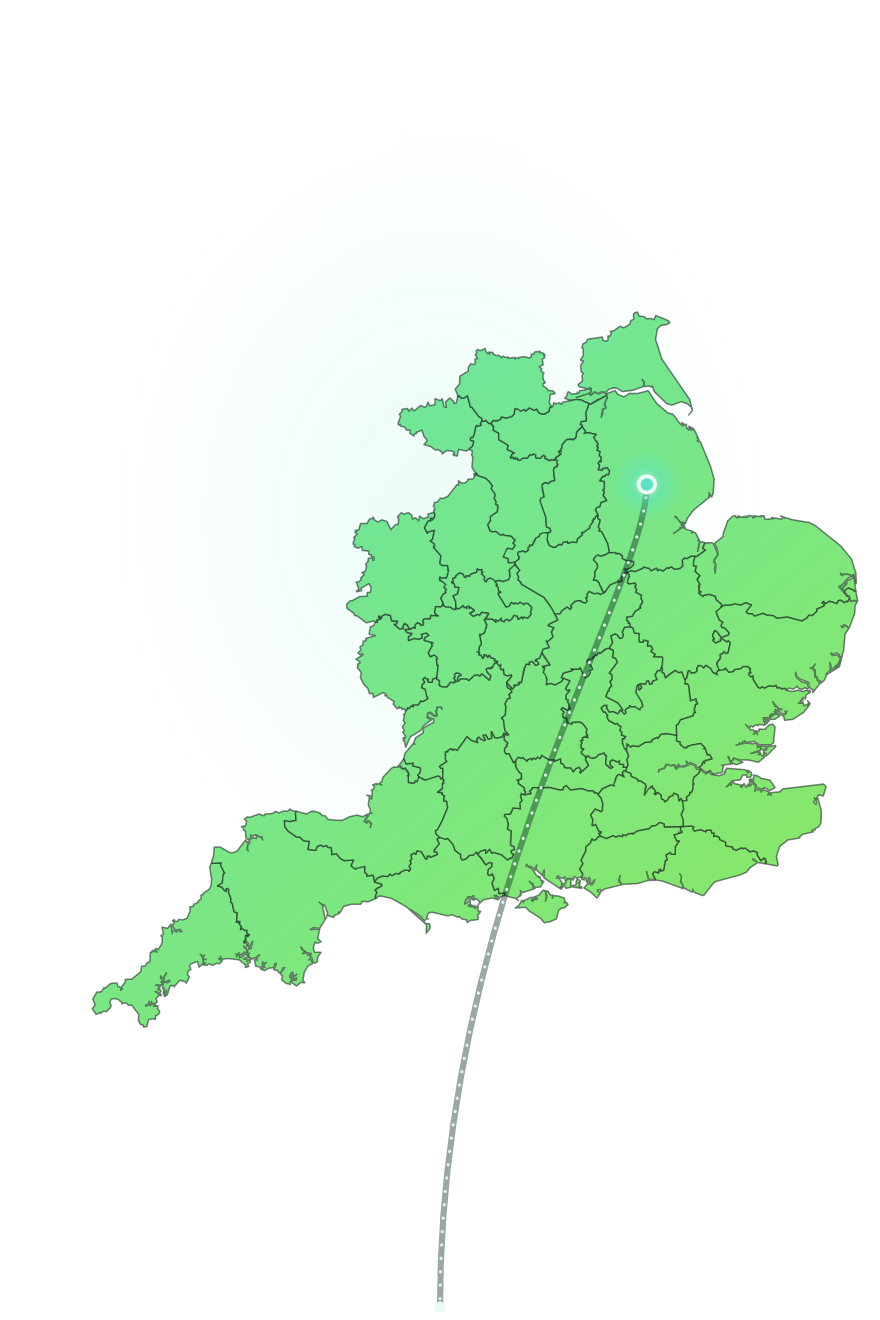
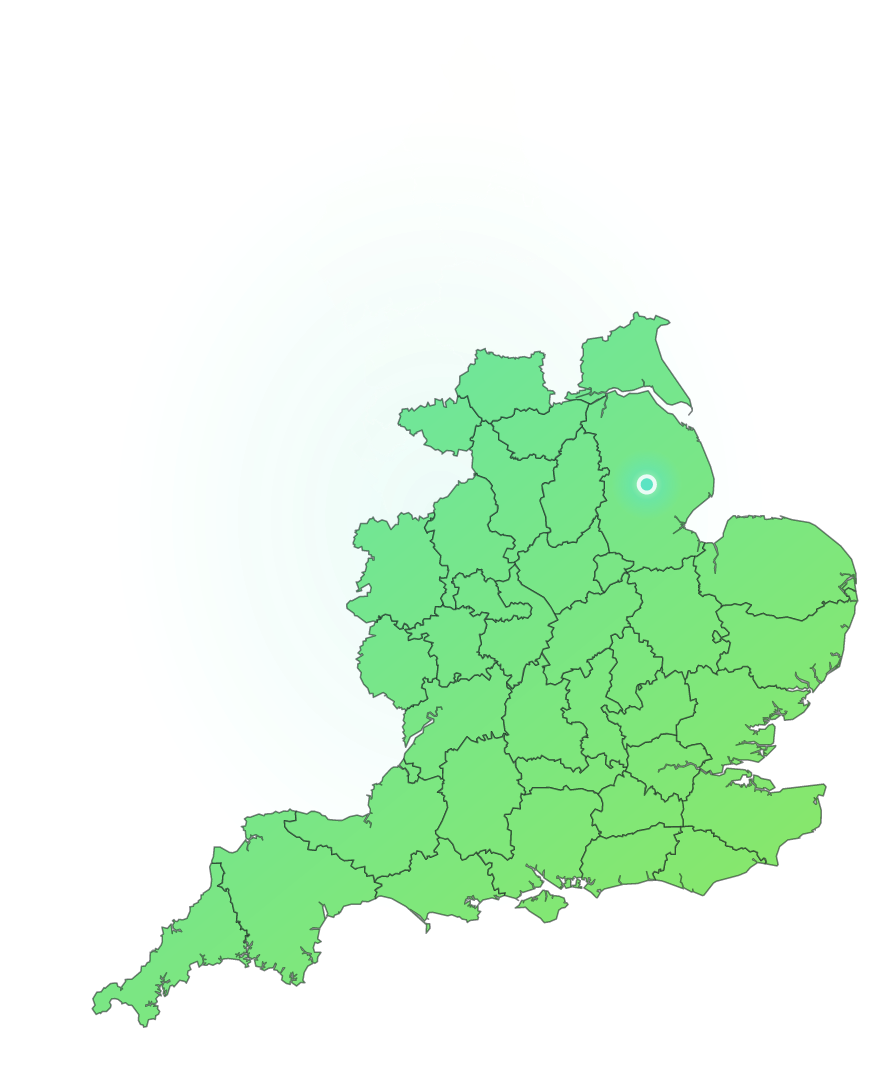
Course count 1,446; make Woodhall Spa a highlight, not the centrepiece
- progressConfig: coursesMapped 1,181 -> 1,446.
- Woodhall drops from the big under-map callout to a highlight bullet, below the
  totals — the map keeps a bright locator pin, the highlight names it. Removes
  the leader line and the extended map canvas; the spotlight config is now just
  the pin (enabled / county / name).

Regenerated atlas-current.png (pin only, no leader).

Claude-Session: https://claude.ai/code/session_011c8BDkbpDYh5arE365nVvF

Changed region(s): [[0.092, 0.2143, 0.9818, 0.9796]]

diff --git a/src/emails/update.tsx b/src/emails/update.tsx
@@ -82,38 +82,6 @@ export default function UpdateEmail() {
             width={440}
             style={{ width: "100%", maxWidth: 440, height: "auto", margin: "0 auto" }}
           />
-          {/* Standout-course callout — continues the leader line baked into the
-              map above (it lands at bottom-centre, so this stays centred). */}
-          {progress.spotlight.enabled && (
-            <>
-              <Text
-                style={{
-                  margin: "2px 0 0",
-                  fontFamily: brand.display,
-                  fontSize: 16,
-                  fontWeight: 600,
-                  letterSpacing: "-0.2px",
-                  color: brand.ink,
-                }}
-              >
-                {progress.spotlight.name}
-              </Text>
-              <Text style={{ margin: "2px 0 0", fontSize: 12, lineHeight: "17px", color: brand.ink2 }}>
-                {progress.spotlight.county} &middot; {progress.spotlight.note}
-              </Text>
-              <Text
-                style={{
-                  margin: "7px auto 0",
-                  maxWidth: 340,
-                  fontSize: 13,
-                  lineHeight: "19px",
-                  color: brand.ink2,
-                }}
-              >
-                {progress.spotlight.blurb}
-              </Text>
-            </>
-          )}
         </Section>
       )}
 

diff --git a/scripts/build-progress-map.ts b/scripts/build-progress-map.ts
@@ -54,10 +54,6 @@ const donePaths = COUNTY_SHAPES.filter((s) => doneSet.has(s.name))
   .join("");
 
 const { w, h } = COUNTY_VIEW;
-// Extra canvas below the map for the spotlight's leader line to land in, where
-// the email's HTML callout continues it. Kept transparent (the card shows).
-const BAND = 110;
-const H = h + BAND;
 
 const spot = siteConfig.progress.spotlight;
 
@@ -71,10 +67,10 @@ const latestOutline =
     ? `<path d="${latestShape.d}" fill="none" stroke="#EAFBF5" stroke-width="1.3" stroke-linejoin="round" fill-rule="evenodd"/>`
     : "";
 
-// Optional standout-course spotlight: a played-course pin (§11 — a marker, not
-// a county fill) with a dotted leader line curving down to the bottom-centre of
-// the canvas, where the email's HTML callout picks it up. The pin carries a dark
-// ring so it stays legible whether or not its county is filled mint.
+// Optional standout-course pin — a played-course marker (§11 — a marker, not a
+// county fill) that just marks where the course sits; the email names it in a
+// highlight. A bright cream halo + mint core over a soft glow keeps it legible
+// whether or not its county is filled mint.
 let spotlight = "";
 if (spot.enabled) {
   const spotShape = COUNTY_SHAPES.find((s) => s.name === spot.county);
@@ -85,22 +81,13 @@ if (spot.enabled) {
   }
   const px = spotShape.cx;
   const py = spotShape.cy;
-  const lx = w / 2; // leader ends at bottom-centre so the centred caption aligns
-  const ly = H - 6;
-  const leader = `M ${px} ${py} C ${px} ${py + 48}, ${lx} ${(py + ly) / 2}, ${lx} ${ly}`;
   spotlight =
-    // dark casing under a light dotted leader, so it reads over mint or dark
-    `<path d="${leader}" fill="none" stroke="#06231C" stroke-width="2.8" stroke-linecap="round" opacity="0.4"/>` +
-    `<path d="${leader}" fill="none" stroke="#EAFBF5" stroke-width="1.4" stroke-linecap="round" stroke-dasharray="0.1 6" opacity="0.9"/>` +
-    `<circle cx="${lx}" cy="${ly}" r="2.4" fill="#EAFBF5"/>` +
-    // the pin itself, on top: a bright cream halo around a mint core, over a
-    // soft glow — luminous, and pops whether its county is filled mint or dark
     `<circle cx="${px}" cy="${py}" r="16" fill="url(#pinGlow)"/>` +
     `<circle cx="${px}" cy="${py}" r="4.6" fill="#EAFBF5"/>` +
     `<circle cx="${px}" cy="${py}" r="2.8" fill="#5BE4C3"/>`;
 }
 
-const svg = `<svg xmlns="http://www.w3.org/2000/svg" viewBox="0 0 ${w} ${H}" width="${w}" height="${H}">
+const svg = `<svg xmlns="http://www.w3.org/2000/svg" viewBox="0 0 ${w} ${h}" width="${w}" height="${h}">
   <defs>
     <linearGradient id="mint" gradientUnits="userSpaceOnUse" x1="0" y1="0" x2="${w}" y2="${h}">
       <stop offset="0%" stop-color="#5BE4C3"/>

diff --git a/src/lib/siteConfig.ts b/src/lib/siteConfig.ts
@@ -141,21 +141,17 @@ export type SiteConfig = {
      */
     map: { enabled: boolean; alt: string };
     /**
-     * Optional standout course, pinned on the coverage map (a glowing mint
-     * marker at the county's centroid) and named in a caption beneath it. The
-     * `county` must match a county in counties.ts exactly — the map build fails
-     * loudly on a typo. Set enabled:false to omit both pin and caption.
+     * Optional standout course, marked with a glowing pin on the coverage map
+     * at the county's centroid (name it in a highlight below). The `county`
+     * must match a county in counties.ts exactly — the map build fails loudly
+     * on a typo. Set enabled:false to omit the pin.
      */
     spotlight: {
       enabled: boolean;
       /** County the pin sits in (must match counties.ts). */
       county: string;
-      /** Course name shown in the callout, e.g. "Woodhall Spa". */
+      /** Course the pin marks — used in the map's alt text. */
       name: string;
-      /** Short epithet under the name, e.g. "home of England Golf". */
-      note: string;
-      /** A sentence or two on why it's the standout, shown in the callout. */
-      blurb: string;
     };
     /** What's new this update — a short titled bullet each. */
     highlights: ReadonlyArray<{ title: string; body: string }>;
@@ -361,13 +357,15 @@ export const siteConfig: SiteConfig = {
       enabled: true,
       county: "Lincolnshire",
       name: "Woodhall Spa",
-      note: "home of England Golf",
-      blurb: "The Hotchkin is one of the country's great heathland courses — and the standout as we open up Lincolnshire.",
     },
     highlights: [
       {
         title: "The North opens up",
         body: "Three slices of Yorkshire, Greater Manchester and Lincolnshire have joined the map — the collection's reached well beyond the Midlands now.",
+      },
+      {
+        title: "Woodhall Spa is on",
+        body: "That glowing pin up in Lincolnshire is Woodhall Spa — the Hotchkin, home of England Golf and one of the country's great heathland courses.",
       },
     ],
     showRoadmap: true,

diff --git a/src/lib/progressConfig.ts b/src/lib/progressConfig.ts
@@ -14,7 +14,7 @@
 
 export const progressConfig = {
   /** Courses in the database so far. */
-  coursesMapped: 1181,
+  coursesMapped: 1446,
   /** Approximate total — always rendered with a "~". */
   coursesTotal: 2500,
 